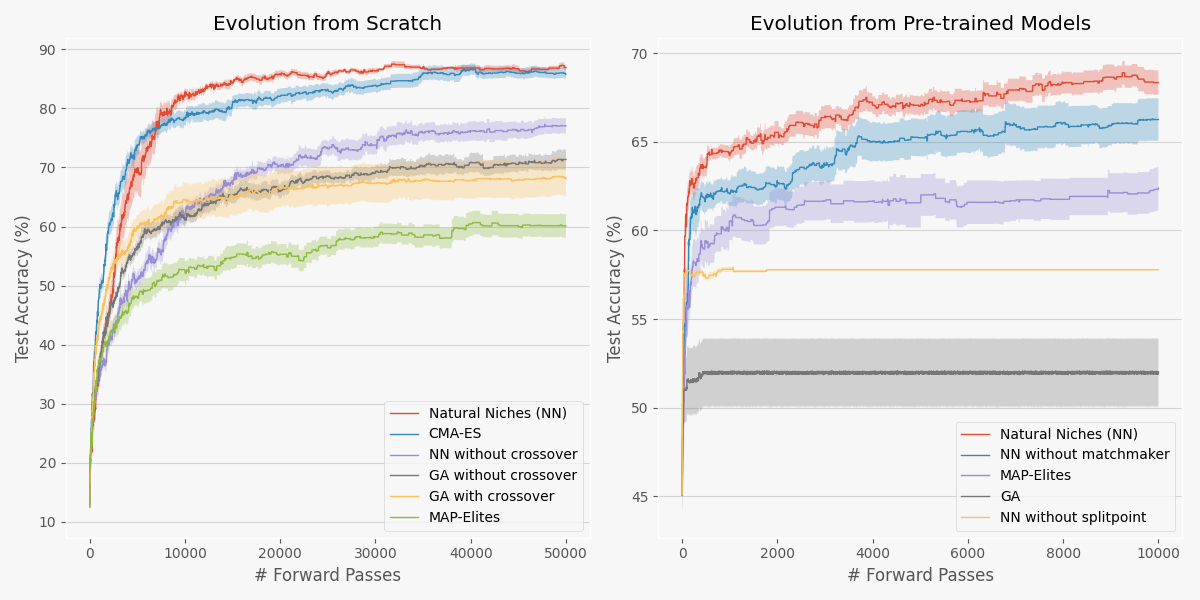
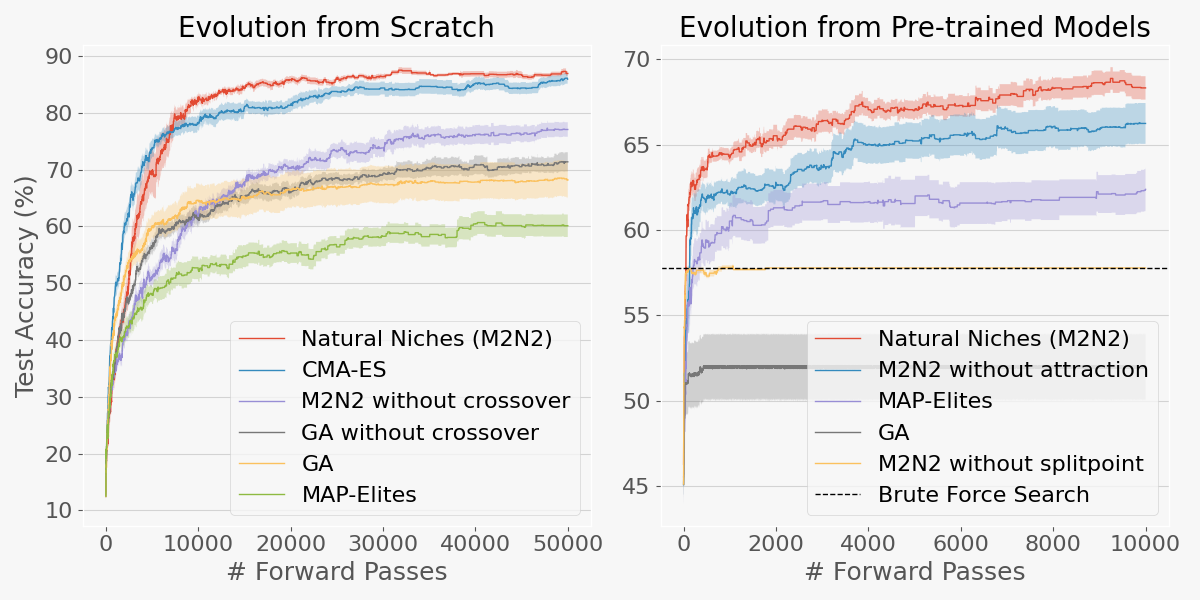
Update figure

diff --git a/README.md b/README.md
@@ -3,7 +3,7 @@
 This repository contains code for our GECCO paper: [Competition and Attraction Improve Model Fusion
 ](https://dl.acm.org/doi/abs/10.1145/3712256.3726329) (arxiv). 
 
-Using this repository you can reproduce the results in the image below, which shows that Natural Niches can achieve comparable results to CMA-ES when evolving MNIST classifiers from scratch, and it is the best method to evolve pre-trained models.
+Using this repository you can reproduce the results in the image below, which shows that M2N2 (<u>M</u>odel <u>M</u>erging with <u>N</u>atural <u>N</u>iches) can achieve comparable results to CMA-ES when evolving MNIST classifiers from scratch, and it is the best method to evolve pre-trained models.
 
 ![evolving classifiers from scratch](figure.png)
 
